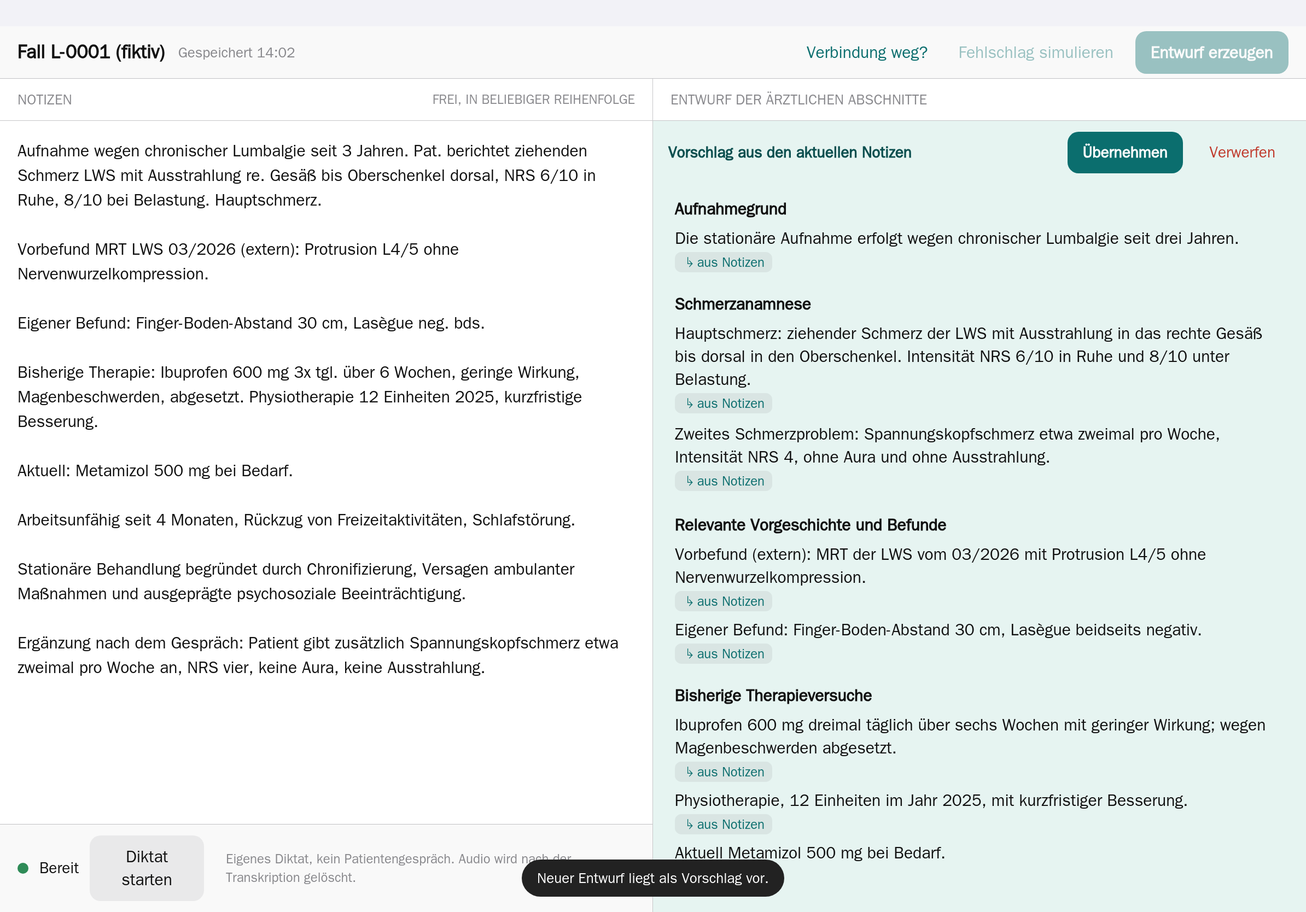
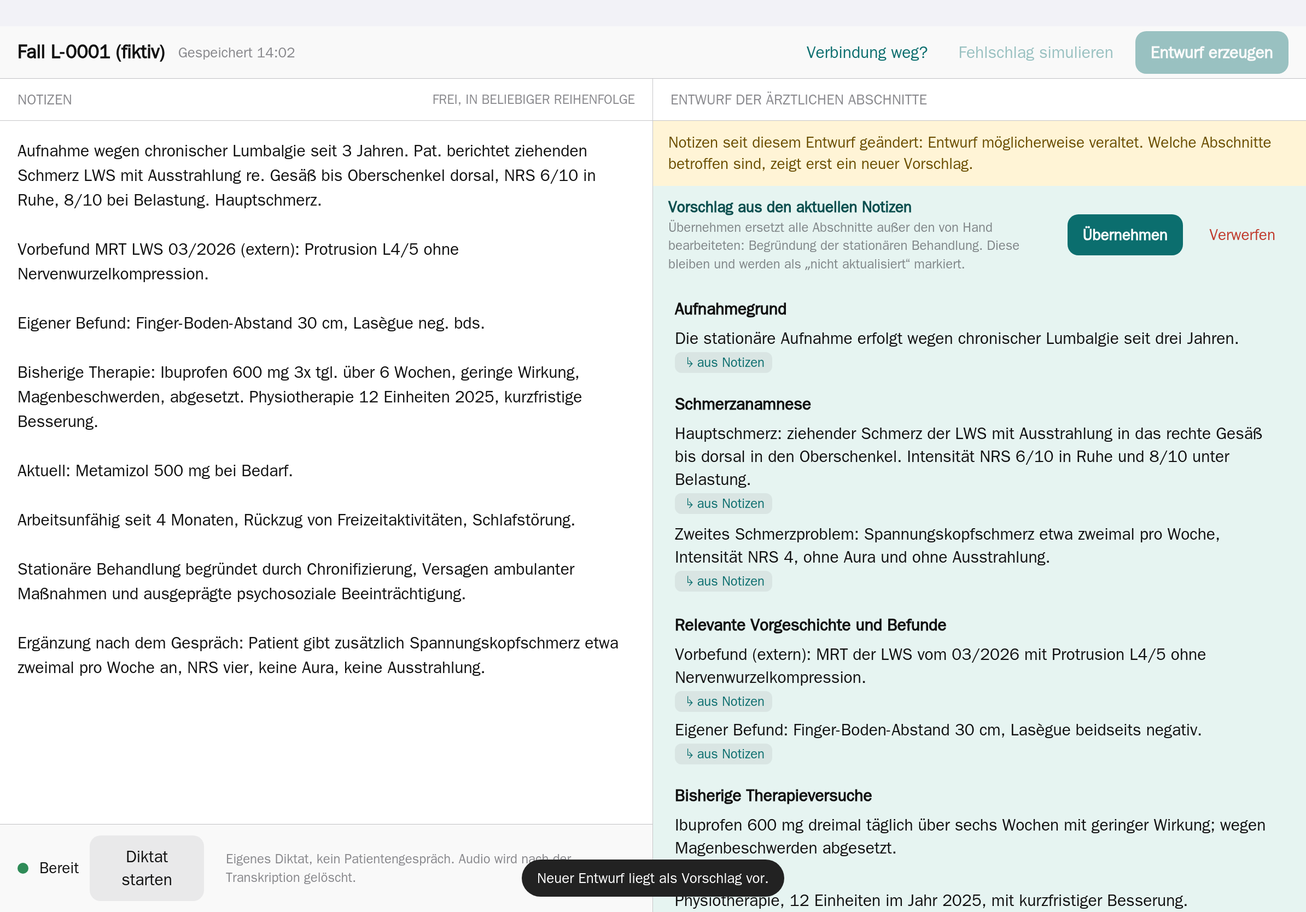
docs: record grilling 3 (case screen, proposal semantics, UI foundation)
CONTEXT.md gains proposal, notes revision, outdated proposal, manually
edited section and section badge. ADR 0008 fixes variant A and the
whole-draft proposal that preserves manual edits and refuses outdated
proposals; ADR 0009 fixes the Quiet Clarity light theme on daisyUI 5,
self-hosted, with the browser support and accessibility baseline. The
PRD carries the new stories, domain model, generation contract, seams,
operator-run iPad compatibility check and out-of-scope items. The
prototype reducer is corrected to the accepted semantics and re-rendered;
the design reports are recorded by attribution since this session could
not read them.

Changed region(s): [[0.4958, 0.1247, 1.0, 0.9353], [0.5268, 0.9664, 0.8987, 0.9976]]

diff --git a/docs/prototypes/SPEC-1/case-screen.html b/docs/prototypes/SPEC-1/case-screen.html
@@ -15,6 +15,11 @@
   and ?scene=dictation (transcript ready for review). Free play works from either.
   Assumptions: Lindra is a browser app, not a native iOS app, so the iOS shell frame is only a
   convenient device frame. All data is the fictional case L-0001; nothing here is real.
+  Decision (grilling 3, 2026-11-08, ADR 0008): variant A, with C's section badges carried into A's
+  headings. After the decision the CaseModel reducer was corrected: accepting a proposal keeps every
+  manually edited section (labelled "manuell bearbeitet, nicht aktualisiert"), a proposal whose notes
+  revision is no longer current is outdated and cannot be accepted, and no per-section staleness is
+  guessed (one document-wide banner). The first version replaced edited sections; that is not normative.
 -->
 <style>
 :root {
@@ -234,6 +239,7 @@ const CaseModel = (() => {
       draftNotes: null,       // notes snapshot the draft was generated from
       proposal: null,         // { draft, clarifications, notes } or null
       edited: {},             // section -> true when the physician edited the draft text by hand
+      notUpdated: {},         // section -> true when the last acceptance skipped it because it was edited
       dictation: { status: "idle", transcript: "" },
       failure: null,
       copied: null,
@@ -255,13 +261,18 @@ const CaseModel = (() => {
   }
 
   const stale = (s) => !!s.draft && s.draftNotes !== s.notes;
+  // A proposal is bound to the notes revision it was generated from; once the notes move on it is outdated.
+  const outdated = (s) => !!s.proposal && s.proposal.notes !== s.notes;
+  // Sections an acceptance would skip because the physician edited them by hand.
+  const skipped = (s) => (s.proposal ? SECTIONS.map((x) => x[0]).filter((k) => s.edited[k]) : []);
 
   // Which actions are legal now. The page greys out what is not.
   function can(s, type) {
     const d = s.dictation.status;
     switch (type) {
       case "generate": return s.notes.trim().length > 0 && d !== "recording" && d !== "transcribing" && !s.proposal;
-      case "accept": case "discard": return !!s.proposal;
+      case "accept": return !!s.proposal && !outdated(s);
+      case "discard": return !!s.proposal;
       case "startDictation": return d === "idle";
       case "stopDictation": return d === "recording";
       case "acceptTranscript": case "discardTranscript": case "editTranscript": return d === "reviewing";
@@ -287,16 +298,26 @@ const CaseModel = (() => {
         n.proposal = { draft: v2 ? DRAFT_V2 : DRAFT_V1, clarifications: v2 ? CLAR_V2 : CLAR_V1, notes: s.notes };
         n.changed = s.draft ? "Neuer Entwurf liegt als Vorschlag vor; dein bisheriger Entwurf bleibt bis zur Übernahme." : "Erster Entwurf liegt als Vorschlag vor.";
         return n;
-      case "accept":
+      case "accept": {
         if (!can(s, "accept")) return s;
-        n.draft = s.proposal.draft; n.clarifications = s.proposal.clarifications; n.draftNotes = s.proposal.notes; n.proposal = null; n.edited = {};
-        n.changed = "Vorschlag übernommen. Handbearbeitungen des alten Entwurfs sind ersetzt, weil du es bestätigt hast."; return n;
+        const keep = skipped(s);
+        n.draft = Object.assign({}, s.proposal.draft);
+        n.notUpdated = {};
+        keep.forEach((k) => { n.draft[k] = s.draft[k]; n.notUpdated[k] = true; });
+        n.clarifications = s.proposal.clarifications; n.draftNotes = s.proposal.notes; n.proposal = null;
+        n.changed = keep.length
+          ? "Vorschlag übernommen. Von Hand bearbeitete Abschnitte bleiben unverändert und sind als „nicht aktualisiert“ markiert: " + keep.map(title).join(", ") + "."
+          : "Vorschlag übernommen. Klärungsliste des Vorschlags gilt jetzt für den Fall.";
+        return n;
+      }
       case "discard":
         if (!can(s, "discard")) return s;
         n.proposal = null; n.changed = "Vorschlag verworfen. Bisheriger Entwurf bleibt."; return n;
       case "editDraft":
         n.draft = Object.assign({}, s.draft); n.draft[a.section] = [{ text: a.text, ref: null }];
-        n.edited = Object.assign({}, s.edited); n.edited[a.section] = true; n.changed = "Abschnitt von Hand bearbeitet; Herkunftsangabe entfällt für diesen Absatz."; return n;
+        n.edited = Object.assign({}, s.edited); n.edited[a.section] = true;
+        n.notUpdated = Object.assign({}, s.notUpdated); delete n.notUpdated[a.section];
+        n.changed = "Abschnitt von Hand bearbeitet; Herkunftsangabe entfällt. Klärungspunkte bleiben offen, bis du sie löst."; return n;
       case "startDictation":
         if (!can(s, "startDictation")) return s;
         n.dictation = { status: "recording", transcript: "" }; n.changed = "Aufnahme läuft. Nur deine eigene Stimme."; return n;
@@ -322,7 +343,7 @@ const CaseModel = (() => {
     }
   }
 
-  return { SECTIONS, initial, reduce, can, stale, TRANSCRIPT };
+  return { SECTIONS, initial, reduce, can, stale, outdated, skipped, TRANSCRIPT };
 })();
 
 // ---------------------------------------------------------------------------------------------
@@ -330,7 +351,7 @@ const CaseModel = (() => {
 // ---------------------------------------------------------------------------------------------
 const q0 = new URLSearchParams(location.search);
 let app = CaseModel.initial(q0.get("scene") || "proposal");
-const ui = { tab: "notizen", section: "schmerzanamnese", openRef: null };
+const ui = { tab: "notizen", section: "schmerzanamnese", openRef: null, editing: null };
 function dispatch(a) { app = CaseModel.reduce(app, a); render(); if (a.type === "stopDictation") setTimeout(() => dispatch({ type: "transcriptReady" }), 1500); }
 const esc = (t) => t.replace(/[&<>"]/g, (c) => ({ "&": "&amp;", "<": "&lt;", ">": "&gt;", '"': "&quot;" }[c]));
 const title = (key) => CaseModel.SECTIONS.find((s) => s[0] === key)[1];
@@ -352,12 +373,18 @@ function clarList(items) {
   if (!items.length) return "";
   return `<div class="clar"><h4>Klärungsliste</h4><ul style="margin:0;padding-left:18px">${items.map((c) => `<li><b>${esc(title(c.section))}:</b> ${esc(c.text)}</li>`).join("")}</ul></div>`;
 }
-function sectionStale(s, key) {
-  if (!CaseModel.stale(s)) return false;
-  // Crude: a section is marked stale when the proposal (or a fresh generation) would change it. Without a proposal, every section is "possibly stale".
-  if (!s.proposal) return true;
-  return JSON.stringify(s.proposal.draft[key]) !== JSON.stringify(s.draft[key]);
+// Per-section staleness is never guessed (grilling 3). A section badge says only one of three things:
+// the pending proposal changes it, it was manually edited (and possibly skipped on the last acceptance), or a clarification item is open for it.
+function proposalChanges(s, key) {
+  return !!s.proposal && JSON.stringify(s.proposal.draft[key]) !== JSON.stringify(s.draft ? s.draft[key] : null);
 }
+function badges(s, key) {
+  const items = s.proposal ? s.proposal.clarifications : s.clarifications;
+  return (proposalChanges(s, key) ? `<span class="staleflag" style="background:var(--proposal);color:#0b4f4f">Vorschlag ändert</span>` : "")
+    + (s.notUpdated[key] ? `<span class="staleflag">manuell bearbeitet, nicht aktualisiert</span>` : s.edited[key] ? `<span class="staleflag" style="background:var(--fill);color:var(--label-2)">manuell bearbeitet</span>` : "")
+    + (items.some((c) => c.section === key) ? `<span class="staleflag" style="background:#fdecea;color:var(--red)">Klärung offen</span>` : "");
+}
+function sectionStale(s, key) { return proposalChanges(s, key); }
 function wireCommon(root) {
   root.querySelectorAll("[data-act]").forEach((b) => b.addEventListener("click", () => dispatch({ type: b.dataset.act, section: b.dataset.section, fail: b.dataset.fail === "1" })));
   root.querySelectorAll("[data-ref]").forEach((r) => r.addEventListener("click", () => { ui.openRef = ui.openRef === r.dataset.ref ? null : r.dataset.ref; render(); }));
@@ -399,24 +426,36 @@ const VARIANTS = {
       const s = app, portrait = st.orient === "portrait";
       const st_ = CaseModel.stale(s);
       const seg = portrait ? `<span class="seg"><button data-tab="notizen" class="${ui.tab === "notizen" ? "on" : ""}">Notizen</button><button data-tab="entwurf" class="${ui.tab === "entwurf" ? "on" : ""}">Entwurf${s.proposal ? " •" : ""}</button></span>` : "";
-      const draftDoc = s.draft ? CaseModel.SECTIONS.map((sec) => `<div class="sec"><div class="sec-title">${esc(sec[1])}${sectionStale(s, sec[0]) ? `<span class="staleflag">veraltet?</span>` : ""}
-          ${s.copied === sec[0] ? `<span class="copied">Kopiert ✓</span>` : `<button class="copy" data-act="copy" data-section="${sec[0]}">Abschnitt kopieren</button>`}</div>
-          ${paragraphs(s.draft[sec[0]], { prefix: "A" + sec[0] })}</div>`).join("") : `<p class="hint" style="padding:20px">Noch kein Entwurf. „Entwurf erzeugen“ schreibt einen Vorschlag aus den Notizen.</p>`;
-      const proposalDoc = s.proposal ? `<div class="banner proposal"><b>Vorschlag aus den aktuellen Notizen</b><span class="grow"></span>
-          <button class="btn" data-act="accept">Übernehmen</button><button class="btn danger" data-act="discard">Verwerfen</button></div>
-          <div class="doc" style="background:var(--proposal)">${CaseModel.SECTIONS.map((sec) => `<div class="sec"><div class="sec-title">${esc(sec[1])}</div>${paragraphs(s.proposal.draft[sec[0]], { prefix: "P" + sec[0], isNew: (p) => !(s.draft && s.draft[sec[0]].some((d) => d.text === p.text)) })}</div>`).join("")}${clarList(s.proposal.clarifications)}</div>
-          <div class="banner stale">Dein bisheriger Entwurf (bleibt, bis du den Vorschlag übernimmst)${Object.keys(s.edited).length ? "; enthält Handbearbeitungen" : ""}</div>` : "";
+      const old = CaseModel.outdated(s), skip = CaseModel.skipped(s);
+      const draftDoc = s.draft ? CaseModel.SECTIONS.map((sec) => {
+        const k = sec[0], editing = ui.editing === k;
+        return `<div class="sec"><div class="sec-title">${esc(sec[1])}${badges(s, k)}
+          ${editing ? `<button class="copy" data-doneedit="${k}">Fertig</button>` : `<button class="copy" data-edit="${k}">Bearbeiten</button>`}
+          ${s.copied === k ? `<span class="copied" style="margin-left:8px">Kopiert ✓</span>` : `<button class="copy" style="margin-left:8px" data-act="copy" data-section="${k}">Abschnitt kopieren</button>`}</div>
+          ${editing ? `<textarea data-editdraft="${k}" style="width:100%;min-height:90px;border:1.5px solid var(--tint);border-radius:8px;padding:8px;font:inherit;resize:vertical">${esc((s.draft[k] || []).map((p) => p.text).join("\n"))}</textarea><div class="hint">Freier Text. Herkunftsangaben entfallen für umgeschriebene Absätze.</div>` : paragraphs(s.draft[k], { prefix: "A" + k })}</div>`;
+      }).join("") : `<p class="hint" style="padding:20px">Noch kein Entwurf. „Entwurf erzeugen“ schreibt einen Vorschlag aus den Notizen.</p>`;
+      const proposalDoc = s.proposal ? `<div class="banner ${old ? "stale" : "proposal"}"><div><b>${old ? "Vorschlag: Notizen seit diesem Vorschlag geändert" : "Vorschlag aus den aktuellen Notizen"}</b>
+            <div class="hint">${old ? "Kann nicht übernommen werden. Verwerfen und neu erzeugen." : skip.length ? "Übernehmen ersetzt alle Abschnitte außer den von Hand bearbeiteten: " + esc(skip.map(title).join(", ")) + ". Diese bleiben und werden als „nicht aktualisiert“ markiert." : "Übernehmen ersetzt den ganzen Entwurf; Klärungsliste wird übernommen."}</div></div><span class="grow"></span>
+          <button class="btn" data-act="accept" ${CaseModel.can(s, "accept") ? "" : "disabled"}>Übernehmen</button><button class="btn danger" data-act="discard">Verwerfen</button></div>
+          <div class="doc" style="background:${old ? "#f6f1e3" : "var(--proposal)"}">${CaseModel.SECTIONS.map((sec) => `<div class="sec"><div class="sec-title">${esc(sec[1])}${s.edited[sec[0]] ? `<span class="staleflag">wird übersprungen (manuell bearbeitet)</span>` : ""}</div>${paragraphs(s.proposal.draft[sec[0]], { prefix: "P" + sec[0], isNew: (p) => !(s.draft && s.draft[sec[0]].some((d) => d.text === p.text)) })}</div>`).join("")}${clarList(s.proposal.clarifications)}</div>
+          <div class="banner stale">Dein bisheriger Entwurf (bleibt, bis du den Vorschlag übernimmst)</div>` : "";
       return `<div class="page"><div class="status"></div>${navBar(s, seg)}${failBanner(s)}
         <div class="cols">
           <div class="col ${portrait && ui.tab !== "notizen" ? "hidden" : ""}"><div class="colhead">Notizen<span class="grow"></span><span class="hint">frei, in beliebiger Reihenfolge</span></div>
             <div class="scroll"><textarea class="notes" data-notes ${CaseModel.can(s, "editNotes") ? "" : "readonly"}>${esc(s.notes)}</textarea></div>
             ${s.dictation.status === "reviewing" ? `<div class="review">${transcriptReview(s)}</div>` : ""}
             <div class="dictbar">${dictationControls(s)}<span class="grow"></span><span class="hint">Eigenes Diktat, kein Patientengespräch. Audio wird nach der Transkription gelöscht.</span></div></div>
-          <div class="col ${portrait && ui.tab !== "entwurf" ? "hidden" : ""}"><div class="colhead">Entwurf der ärztlichen Abschnitte<span class="grow"></span>${st_ && !s.proposal ? `<span class="staleflag">Notizen geändert: Entwurf möglicherweise veraltet</span>` : ""}</div>
+          <div class="col ${portrait && ui.tab !== "entwurf" ? "hidden" : ""}"><div class="colhead">Entwurf der ärztlichen Abschnitte<span class="grow"></span></div>
+            ${st_ ? `<div class="banner stale">Notizen seit diesem Entwurf geändert: Entwurf möglicherweise veraltet. Welche Abschnitte betroffen sind, zeigt erst ein neuer Vorschlag.</div>` : ""}
             <div class="scroll">${proposalDoc}<div class="doc">${draftDoc}${s.draft ? clarList(s.clarifications) : ""}</div></div></div>
         </div>${changedToast(s)}</div>`;
     },
-    wire(root) { wireCommon(root); root.querySelectorAll("[data-tab]").forEach((b) => b.addEventListener("click", () => { ui.tab = b.dataset.tab; render(); })); },
+    wire(root) {
+      wireCommon(root);
+      root.querySelectorAll("[data-tab]").forEach((b) => b.addEventListener("click", () => { ui.tab = b.dataset.tab; render(); }));
+      root.querySelectorAll("[data-edit]").forEach((b) => b.addEventListener("click", () => { ui.editing = b.dataset.edit; render(); }));
+      root.querySelectorAll("[data-doneedit]").forEach((b) => b.addEventListener("click", () => { ui.editing = null; render(); }));
+    },
   },
 
   B: {
@@ -438,8 +477,8 @@ const VARIANTS = {
           <div class="noteswrap"><div class="noteshead"><b>Notizen</b><span class="spacer" style="flex:1"></span>${dictationControls(s, "hint")}</div>
             <textarea class="notes" data-notes ${CaseModel.can(s, "editNotes") ? "" : "readonly"}>${esc(s.notes)}</textarea></div>
           <div style="display:flex;flex-direction:column;min-height:0">
-            <div class="toolbar"><b>Entwurf</b>${CaseModel.stale(s) && !s.proposal ? `<span class="staleflag">Notizen geändert: Entwurf möglicherweise veraltet</span>` : ""}<span style="flex:1"></span>
-              ${s.proposal ? `<span style="color:#0b4f4f;font-size:14px">Vorschlag liegt vor</span><button class="btn" data-act="accept">Vorschlag übernehmen</button><button class="btn danger" data-act="discard">Verwerfen</button>` : ""}</div>
+            <div class="toolbar"><b>Entwurf</b>${CaseModel.stale(s) ? `<span class="staleflag">Notizen geändert: Entwurf möglicherweise veraltet</span>` : ""}<span style="flex:1"></span>
+              ${s.proposal ? `<span style="color:#0b4f4f;font-size:14px">${CaseModel.outdated(s) ? "Notizen seit diesem Vorschlag geändert" : "Vorschlag liegt vor"}</span><button class="btn" data-act="accept" ${CaseModel.can(s, "accept") ? "" : "disabled"}>Vorschlag übernehmen</button><button class="btn danger" data-act="discard">Verwerfen</button>` : ""}</div>
             <div class="cards">${clar}${cards}</div></div>
         </div>${changedToast(s)}</div>`;
     },
@@ -489,7 +528,7 @@ const VARIANTS = {
           <div class="focus"><div class="focushead"><b>${esc(title(key))}</b>${sectionStale(s, key) && !s.proposal ? `<span class="staleflag">veraltet?</span>` : ""}<span style="flex:1"></span>
               ${s.copied === key ? `<span class="copied">Kopiert ✓</span>` : `<button class="btn plain" data-act="copy" data-section="${key}">Abschnitt kopieren</button>`}</div>
             <div class="focusbody">${focus}</div>
-            <div class="focusfoot">${s.proposal ? `<span class="hint">Der Vorschlag gilt für alle Abschnitte.</span><span style="flex:1"></span><button class="btn" data-act="accept">Vorschlag übernehmen</button><button class="btn danger" data-act="discard">Verwerfen</button>` : `<span class="hint">${CaseModel.stale(s) ? "Notizen seit dem Entwurf geändert." : "Entwurf passt zu den Notizen."}</span>`}</div></div>
+            <div class="focusfoot">${s.proposal ? `<span class="hint">${CaseModel.outdated(s) ? "Notizen seit diesem Vorschlag geändert." : "Der Vorschlag gilt für alle Abschnitte."}</span><span style="flex:1"></span><button class="btn" data-act="accept" ${CaseModel.can(s, "accept") ? "" : "disabled"}>Vorschlag übernehmen</button><button class="btn danger" data-act="discard">Verwerfen</button>` : `<span class="hint">${CaseModel.stale(s) ? "Notizen seit dem Entwurf geändert." : "Entwurf passt zu den Notizen."}</span>`}</div></div>
         </div>${changedToast(s)}</div>`;
     },
     wire(root) { wireCommon(root); root.querySelectorAll("[data-sec]").forEach((b) => b.addEventListener("click", () => { ui.section = b.dataset.sec; render(); })); },

diff --git a/docs/prd/lindra-first-release.md b/docs/prd/lindra-first-release.md
@@ -27,6 +27,8 @@ Cases and notes
 7. As the physician, I want a clear indication when my changes are not saved because the network is gone, so that I know what to retype rather than assuming it was kept.
 8. As the physician, I want the notes area and the draft side by side, so that I can compare and correct without switching screens.
 9. As the physician, I want the application in German on both my iPad and my desktop browser, so that it fits where I actually write.
+9a. As the physician, I want a calm light screen with readable text, large touch targets, visible keyboard focus and states that do not rely on colour alone, so that I can work on it for hours and on an iPad with my finger.
+9b. As the physician, I want the notes and the letter side by side on a wide screen and as two tabs on a portrait iPad, so that I can compare and correct wherever I am.
 
 Dictation
 
@@ -42,11 +44,16 @@ Generation and the draft
 
 17. As the physician, I want a draft generated only when I explicitly ask for it, so that nothing changes under my hands.
 18. As the physician, I want the draft organised in the hospital's sections, admission reason, pain history, relevant history and findings, previous therapy attempts, functional and psychosocial impact, inpatient justification and, when I supplied them, therapy goals, so that it maps onto the letter in the hospital system.
-19. As the physician, I want a new draft offered as a proposal I accept or discard, so that it never silently replaces edits I made to the previous draft.
+19. As the physician, I want a new draft offered as one proposal for the whole letter that I accept or discard with one action, so that reviewing a generation costs me one decision, not seven.
 20. As the physician, I want to edit the draft freely, so that the final wording is mine.
-21. As the physician, I want the draft marked as potentially stale when I change the notes after generating it, so that I know when to regenerate.
+20a. As the physician, I want sections I edited by hand to survive accepting a proposal, including edits I made while the proposal was pending, with the skipped sections named before I accept and labelled "manuell bearbeitet, nicht aktualisiert" afterwards, so that my wording is never overwritten and I never believe the whole draft is fresh when it is not.
+20b. As the physician, I want the proposal's alternative for a skipped section to stay visible until I finally accept or discard the proposal, so that I can take it over by hand if I want it.
+20c. As the physician, I want accepting a proposal to adopt its clarification list for the whole case, and my manual edits never to tick off a clarification item by themselves, so that open questions stay open until I resolve them.
+21. As the physician, I want one banner on the whole draft saying it is possibly outdated when I change the notes after generating it, without Lindra guessing which sections are affected, so that I know when to regenerate and am not misled by guesses.
+21a. As the physician, I want a proposal that was generated from older notes, because I typed, accepted a transcript or changed notes while it was being generated, to stay visible but be unacceptable and labelled "Notizen seit diesem Vorschlag geändert", so that I discard it and regenerate deliberately instead of accepting text that no longer matches my notes.
+21b. As the physician, I want badges on section headings that say only "proposed change", "manually edited" or "open clarification", so that I see what needs my attention without any badge pretending to verify content.
 22. As the physician, I want my notes and my last draft preserved when a generation fails, so that a model error costs me nothing.
-23. As the physician, I want each paragraph of the draft to show the passage of my notes it came from, without a confidence score or any claim that it is correct, so that I can check origin quickly and still judge content myself.
+23. As the physician, I want each generated paragraph to carry a tappable input reference that reveals the passage of my notes it came from, without a confidence score or any claim that it is correct, and to lose that reference when I rewrite the paragraph, so that origin is visible and never mistaken for verification.
 24. As the physician, I want to copy a single section as plain text with one action, so that pasting into the hospital system is fast and keeps the hospital's formatting.
 25. As the physician, I want the text model to run self-hosted with no cloud fallback, so that patient information never leaves our own hardware.
 25a. As the operator, I want to compare the self-hosted text model against a hosted one on the fictional cast only, in a configuration I launch explicitly, so that I learn whether local inference is good enough without any real data or default cloud path.
@@ -81,20 +88,26 @@ Shape
 - One Python web service with a SQLite database and a server-driven, responsive German browser UI for iPad and desktop (ADR 0005). No native app, no offline synchronisation.
 - Access is the private network (Tailscale) plus one protected application login; a single token or password, no registration, no roles.
 - The hospital system is the record; Lindra hands over plain-text sections by copy and has no integration, export or sending (ADR 0002).
+- The case screen is the prototype's variant A (ADR 0008): notes and the letter as one continuous document side by side on wide screens, Notizen/Entwurf tabs on a portrait iPad, the dictation bar and transcript review under the notes, section badges on the headings, a copy action per section, free manual editing of the draft.
+- UI foundation (ADR 0009): a single light theme, Quiet Clarity (warm off-white, opaque writing surfaces, forest-teal actions, restrained local SVG icons), on daisyUI 5 component CSS over native semantic HTML controls, pinned and self-hosted with fonts and icons; no React or Web Awesome runtime, no CDN assets, no glass effects, no dark theme, no rich-text editor, no onboarding. daisyUI is conditional on a target-browser check; if it fails, the findings go back to the operator with a Bootstrap alternative. Accessibility baseline: visible keyboard focus, non-colour state cues, reduced-motion behaviour, touch targets of at least 44 by 44 CSS pixels, contrast validated in the real token combinations.
+- Browser support: the latest two major Safari and iPadOS releases, current desktop Chrome, Firefox, Edge and Safari. Older iPads are not promised.
 
 Domain model
 
-- A case holds a fictional case identifier, the notes, the current draft, the accepted-or-discarded state of the latest proposal, the clarification list, the staleness flag and timestamps. Cases list, open and delete; nothing else.
-- Notes are one editable text body per case. A transcript is appended to the notes as a marked passage once the physician accepts it; it never replaces existing text.
-- A draft has exactly the fixed sections: admission reason, pain history, relevant history and findings, previous therapy attempts, functional and psychosocial impact, inpatient justification, therapy goals (present only when supplied). Each section holds paragraphs; each paragraph carries an input reference (a span of the notes) or none.
+- A case holds a fictional case identifier, the notes with a notes revision marker, the current draft with the notes revision it was generated from, a per-section manually-edited flag, the pending proposal (if any) with its notes revision, the clarification list and timestamps. Cases list, open and delete; nothing else.
+- Notes are one editable text body per case. Every saved change advances the notes revision. A transcript is appended to the notes as a marked passage once the physician accepts it; it never replaces existing text.
+- A draft has exactly the fixed sections: admission reason, pain history, relevant history and findings, previous therapy attempts, functional and psychosocial impact, inpatient justification, therapy goals (present only when supplied). Each section holds paragraphs; each generated paragraph carries an input reference (a span of the notes); a paragraph the physician rewrote carries none.
 - The clarification list is a list of items, each naming the section it affects and the missing or contradictory information, in the physician's language.
 - Structured content the draft must respect: pain problems (site, radiation, course, intensity, modifiers, limitations, main pain only when named), provenance (patient report, prior finding, physician finding, unknown), dates and time windows when supplied, treatments (current or previous; substance, dose, duration, effect, adverse effects, discontinuation reason, each only when supplied), user-entered scores with instrument, version and date when known.
 
 Generation contract
 
 - Generation runs only on the physician's explicit action. The service sends the notes to the text model adapter and receives a structured result: sections with paragraphs and input references, and the clarification list. Prose with no structure is rejected as a failed generation.
-- A generation result is stored as a proposal next to the current draft. The physician accepts it (it becomes the draft) or discards it (the current draft stays). Manual edits to the draft are never overwritten.
-- When the notes change after the current draft was generated, the draft is flagged stale until the next accepted proposal.
+- A generation result is stored as one proposal for the whole draft next to the current draft, bound to the notes revision it was generated from. The physician accepts or discards it with one action; there is no per-section acceptance (ADR 0008).
+- Acceptance replaces only sections without the manually-edited flag, including sections edited while the proposal was pending. The API reports the sections it would skip before acceptance and the UI names them; after acceptance the skipped sections keep their flag and the label "manuell bearbeitet, nicht aktualisiert", and the proposal's alternative text for them stays visible until the proposal is finally accepted or discarded. Acceptance adopts the proposal's clarification list for the case; manual edits never resolve clarification items.
+- When the current notes revision differs from the proposal's, the proposal is outdated: it stays visible, the API refuses to accept it, and the UI labels it "Notizen seit diesem Vorschlag geändert". The physician discards it and regenerates explicitly; Lindra never regenerates on its own, and an outdated proposal never clears the draft's stale state.
+- When the notes revision moves past the one the current draft was generated from, the draft is stale: one document-wide banner says it is possibly outdated. No per-section staleness is guessed. The stale state clears only when a proposal generated from the current notes revision is accepted; sections skipped on acceptance stay marked as not updated.
+- Section badges carry exactly three meanings: the pending proposal changes this section, the section is manually edited, the clarification list has an open item for it. None expresses verification.
 - A failed generation leaves notes and current draft untouched and tells the physician it failed and why, in plain words.
 - The prompt and post-processing enforce the intended purpose (ADR 0001): no inference of diagnoses, causes, justification, doses, interactions, normal findings or provenance; no ranking of pain problems; no resolution of contradictions; no completeness or approval claims. The structured result is checked for input references that do not point into the notes and for sections the notes did not support; such paragraphs are dropped and the gap goes on the clarification list.
 
@@ -107,9 +120,9 @@ Adapters
 
 Seams for tests
 
-- Primary seam: the application's HTTP API with the fixture model and canned transcripts. Every workflow test goes through it: cases, notes autosave, dictation and transcript review, generation, proposals, staleness, failure preservation, input references, clarification list, section copy text.
-- Pure logic tests where the behaviour is a function: the result check (dropping unsupported paragraphs and unreferenced spans), staleness, transcript append, section plain-text rendering.
-- One small browser flow (iPad-sized and desktop viewport) covering notes input, generation, editing and copying a section, plus dictation start, stop, review and accept with a canned transcript.
+- Primary seam: the application's HTTP API with the fixture model and canned transcripts. Every workflow test goes through it: cases, notes autosave and revisions, dictation and transcript review, generation, proposal acceptance with skipped manually-edited sections, refusal of an outdated proposal, staleness, failure preservation, input references and their loss on rewrite, clarification list adoption, section copy text.
+- Pure logic tests where the behaviour is a function: the result check (dropping unsupported paragraphs and unreferenced spans), the acceptance merge (which sections are replaced, which retained and labelled), outdated-proposal detection from notes revisions, staleness, transcript append, section plain-text rendering.
+- One small browser flow (iPad-sized portrait with tabs, and desktop viewport side by side) covering notes input, generation, accepting a proposal with one hand-edited section retained and labelled, changing notes while a proposal is pending and seeing acceptance disabled, editing and copying a section, tapping an input reference, plus dictation start, stop, review and accept with a canned transcript. The flow also checks keyboard focus visibility and touch-target size on the primary actions.
 
 Environments (ADR 0007)
 
@@ -128,6 +141,7 @@ Environments (ADR 0007)
 
 Operator-run checks (no factory node can run them; each names when)
 
+- **Operator-run, before merge of the scaffold ticket:** on Ella's physical iPad in Safari over the private network, open the scaffold's sample page built on the chosen CSS distribution and confirm it renders, controls are tappable at 44 by 44 CSS pixels, keyboard focus is visible with an external keyboard, and reduced motion is respected. This is the compatibility check ADR 0009 requires before the CSS distribution is committed to; a failure goes back to the operator with a Bootstrap alternative.
 - **Operator-run, before merge of the dictation ticket:** on Ella's physical iPad in the browser over the private network, start a dictation, see the recording state, stop, see the transcript, correct it and accept it into the notes. Confirms microphone capture, secure origin and the status display on the real device.
 - **Operator-run, before merge of the real-backend ticket:** on the chosen inference hardware, run the self-hosted model and recogniser against the fictional cast, and the hosted comparison with the operator's own account, and record the measured German quality and latency in the repository; a result that cannot carry the workflow is reported as such, not hidden.
 - **Operator-run, at the end of the release:** Ella prepares the three fictional cases with her template workflow and with Lindra, typed and dictated, measuring total time including review, correction and transcript correction, and judges fabricated statements, lost facts and usability. The result is recorded in the repository; a missed target creates follow-ups and is not weakened.
@@ -142,6 +156,8 @@ Operator-run checks (no factory node can run them; each names when)
 - A research assistant; a full electronic record.
 - Hospital system integration of any kind: FHIR, eArztbrief, KIM, HL7, GDT; PDF or Word export; sending letters.
 - PDF upload or OCR of forms, a patient portal, complete questionnaire capture, automatic scoring or psychological interpretation.
+- Per-section acceptance of a proposal; automatic regeneration; guessing which sections are stale.
+- A dark theme, glass or refraction effects, a rich-text editor, onboarding, generated artwork, logo or brand work; a React or Web Awesome runtime; runtime CDN assets; older iPads outside the support policy.
 - Ambient recording or any recording of patient conversations; operating-system or browser dictation.
 - Cloud text models in the product, including as a fallback; cloud speech recognition in any form. The only hosted inference is the fictional-case evaluation comparison (ADR 0003).
 - Native Apple app; offline synchronisation.
@@ -152,4 +168,6 @@ Operator-run checks (no factory node can run them; each names when)
 - Speech input was added to the first release by the operator's last amendment in the grilling and is binding: voice and text are equal inputs in every ticket, test and acceptance check.
 - The admission form and the German pain questionnaire (DSF 12/2024 with an additional PDI sheet) that Ella supplied are a structural reference only. Do not assume the PDI is absent from the local workflow; do not reproduce the forms; do not publish them or the transcript in the repository. The admission PDF's text layer is damaged and the spoken template was mistranscribed, so neither is a template.
 - Open technical prerequisites, each resolved inside its ticket with a recorded result: model and recogniser choice and hardware suitability; where the hosted comparison provider actually runs inference and under which terms (unverified, to be researched before it is recorded as fact); iPad browser audio capture and formats; suitability of Linux 790 as the test host; the production host pending the legal check.
+- The case-screen prototype (`docs/prototypes/SPEC-1/case-screen.html`, variant A chosen in grilling 3) settled the layout and the proposal and dictation states. Its reducer was corrected after grilling 3 so that acceptance preserves manually edited sections and refuses outdated proposals; the prototype is a record, not code to lift as is.
+- The fictional cast is owned by the environments ticket (seed data and the `reset` mechanism, provable before case storage exists); the cases ticket integrates it into case storage. There is no second dataset.
 - Apple-platform work does not exist in this release; should a later decision change the platform, its tickets are routed to the Mac node first.

diff --git a/docs/adr/0008-case-screen-and-proposal-semantics.md b/docs/adr/0008-case-screen-and-proposal-semantics.md
@@ -1,0 +1,25 @@
+---
+status: accepted
+date: 2026-11-08
+---
+
+# The case screen is two columns with one whole-draft proposal that never overwrites manual edits
+
+Settled in grilling 3 on the prototype `docs/prototypes/SPEC-1/case-screen.html` (variant A chosen, with the section badges of variant C). The case screen shows the notes and the draft as one continuous letter side by side on wide screens, and as Notizen/Entwurf tabs on a portrait iPad. The dictation bar and the transcript review sit under the notes. The draft is freely editable by hand.
+
+## Proposal semantics
+
+- A generation produces one proposal for the whole draft. It is accepted or discarded with one action; there are no per-section accept controls.
+- A proposal is bound to the notes revision it was generated from. When the notes change afterwards, by typing, by an accepted transcript, or while a generation is in flight, the proposal stays visible, cannot be accepted, and is labelled "Notizen seit diesem Vorschlag geändert". The physician discards it and regenerates explicitly. Lindra never regenerates on its own and an outdated proposal never clears the stale marking.
+- Accepting replaces only sections the physician has not edited by hand, including sections edited while the proposal was pending. Before acceptance the screen names the sections that will be skipped. After acceptance the retained sections carry the label "manuell bearbeitet, nicht aktualisiert" and the proposal's alternative for them stays visible until the proposal is finally accepted or discarded. The draft is never presented as fully updated when sections were skipped.
+- Accepting adopts the proposal's clarification list for the whole case. A manual edit never resolves a clarification item by itself.
+- When the notes change after the current draft was generated, one document-wide banner says the draft is possibly outdated. Lindra does not guess which sections are affected before a generation shows it.
+- Section badges say only: proposed change, manually edited, open clarification. They never express clinical verification.
+- Each generated paragraph carries a tappable input reference that reveals the quoted notes passage. Origin is not verification. A paragraph the physician rewrites loses its reference rather than keeping one that no longer supports the wording.
+
+We chose whole-draft acceptance with edit preservation over per-section acceptance because one decision per generation keeps the physician's review cheap, while preserving manual edits is what makes the physician trust the tool with her wording. The prototype's first reducer replaced edited sections on acceptance; that behaviour was rejected in grilling 3 and is not normative.
+
+## Consequences
+
+- The case needs a notes revision marker, an edited flag per section, and a proposal state with its notes revision, so the API can refuse acceptance of an outdated proposal and report which sections it would skip.
+- The browser flow test covers: edit a section, generate, accept, see the section retained and labelled; change notes while a proposal is pending, see acceptance disabled.

diff --git a/docs/adr/0009-ui-foundation-quiet-clarity-daisyui.md b/docs/adr/0009-ui-foundation-quiet-clarity-daisyui.md
@@ -1,0 +1,19 @@
+---
+status: accepted
+date: 2026-11-08
+---
+
+# UI foundation: light "Quiet Clarity" theme on daisyUI 5 component CSS, self-hosted, native controls
+
+Settled in grilling 3 from two operator-supplied design reports (see `docs/research/2026-11-08-design-direction-from-operator-reports.md`). Release one has a single light theme called Quiet Clarity: warm off-white background, opaque writing surfaces, forest-teal actions, readable typography, a few restrained local SVG icons. No glass or refraction effects, no dark theme, no rich-text editor, no onboarding flow, no generated artwork. Brand and logo exploration is separate and does not block the writing workflow.
+
+The component layer is daisyUI 5 component CSS over native semantic HTML controls, conditional on a target-browser check. Assets (CSS, fonts, icons) are pinned and self-hosted; no runtime third-party CDN and no React or Web Awesome runtime by default. System fonts are acceptable; Source Sans 3 is a candidate, not a requirement. If the compatibility check fails, the findings are reported and a Bootstrap alternative is brought back for decision; nothing is substituted silently.
+
+Support policy: the latest two major Safari and iPadOS releases, and current desktop Chrome, Firefox, Edge and Safari. Older iPads are not promised. Accessibility is part of the foundation: visible keyboard focus, states that do not rely on colour alone, reduced-motion behaviour, touch targets of at least 44 by 44 CSS pixels, and contrast validated in the actual token combinations (the reports' hex values are proposals until checked).
+
+We chose a CSS-only component layer because the UI is server-driven (ADR 0005, PRD) and a framework runtime would reopen that decision for one author's screen. We chose self-hosting because the application runs on a private network and must not pull assets from the internet at runtime. The compatibility and physical-iPad checks exist because the reports document upstream claims, not tested guarantees; CSS alone does not supply focus handling, autosave, accessibility or conflict-safe state.
+
+## Consequences
+
+- The scaffold ticket pins and self-hosts the chosen CSS and records the browser check; the physical-iPad compatibility check is operator-run before the CSS distribution is committed to.
+- Keep the approved layout (ADR 0008); no new layout exploration and no mandatory sidebar.

diff --git a/CONTEXT.md b/CONTEXT.md
@@ -51,16 +51,35 @@ _Avoid_: output, result, generated letter
 **Generation**:
 The explicit action by which the physician asks for a new draft from the current notes. Nothing is generated without it.
 
+**Proposal**:
+The result of one generation, held next to the current draft until the physician accepts or discards it as a whole. There is no per-section acceptance.
+_Avoid_: suggestion, candidate, new version
+
+**Notes revision**:
+The exact state of the notes a proposal was generated from. A proposal is bound to it; when the notes move on, the proposal becomes outdated.
+
+**Outdated proposal**:
+A proposal whose notes revision is no longer the current notes. It stays visible, cannot be accepted, and must be discarded before a new generation.
+_Avoid_: stale proposal, expired
+
 **Stale draft**:
-A draft whose notes changed after it was generated. Lindra marks it; it does not regenerate on its own.
+A draft whose notes changed after it was generated. Lindra marks the whole draft with one banner; it does not guess which sections are affected and does not regenerate on its own.
+
+**Manually edited section**:
+A section of the draft whose text the physician changed by hand. Accepting a proposal leaves it untouched and labels it as not updated; the proposal's alternative for it stays visible until the proposal is accepted or discarded.
+_Avoid_: locked section, protected section
 
 **Clarification list**:
 The list of information the physician must still supply or resolve because the notes were missing it or contradicted themselves. Lindra still drafts every section the notes support.
 _Avoid_: warnings, errors, gaps, validation
 
 **Input reference**:
-The pointer from a paragraph of the draft to the passage of the notes it was written from. It shows origin, not correctness.
+The pointer from a generated paragraph of the draft to the passage of the notes it was written from, revealed on tap. It shows origin, not correctness, and a paragraph the physician rewrote loses it.
 _Avoid_: citation, source, confidence
+
+**Section badge**:
+A small label on a section heading that says one of three things: the pending proposal changes this section, the section was manually edited, or the clarification list has an open item for it. Never a clinical verification.
+_Avoid_: status, checkmark
 
 ### Clinical content
 

diff --git a/docs/research/2026-11-08-design-direction-from-operator-reports.md b/docs/research/2026-11-08-design-direction-from-operator-reports.md
@@ -1,0 +1,25 @@
+# Research: design direction from two operator-supplied reports
+
+Supplied by the operator during grilling 3 (8 November 2026) and reviewed there:
+
+- `design-theme-prompt-kit.md` (operator's OneDrive, `openclaw/lindra/`)
+- `lindra-design-system-library-research.md` (Fróði, via Syncthing)
+
+The SPEC-1 session could not read the files themselves (outside its allowed paths), so this note records what grilling 3 took from them and decided. The originals should be copied into `docs/research/` with their authorship when the operator makes them available; they are source reports and proposals, not adopted wholesale.
+
+## What the reports contributed
+
+- A theme direction the grill named Quiet Clarity: warm off-white, opaque writing surfaces, forest-teal actions, readable typography, restrained local SVG icons. The proposed hex tokens are subject to contrast checks in the actual combinations.
+- A component-library comparison recommending daisyUI 5 component CSS over native semantic HTML controls, with React and Web Awesome runtimes as alternatives that the grill rejected for release one, and Bootstrap as the fallback if compatibility fails.
+- Source Sans 3 as a font candidate; system fonts remain acceptable.
+- The library report permits glass or refraction effects; the theme kit does not. Grilling 3 resolved this by excluding them for release one.
+
+## Limits noted in the grill
+
+- The library report documents upstream evidence (versions, licences, activity, iPad and accessibility claims) that the grill did not independently reverify. The scaffold ticket verifies the selected distribution and records its limitations.
+- CSS alone does not supply focus handling, autosave, accessibility or conflict-safe state management; those are application work.
+
+## Where the decisions live
+
+- `docs/adr/0009-ui-foundation-quiet-clarity-daisyui.md`
+- `docs/adr/0008-case-screen-and-proposal-semantics.md` (the approved layout the theme is applied to)
